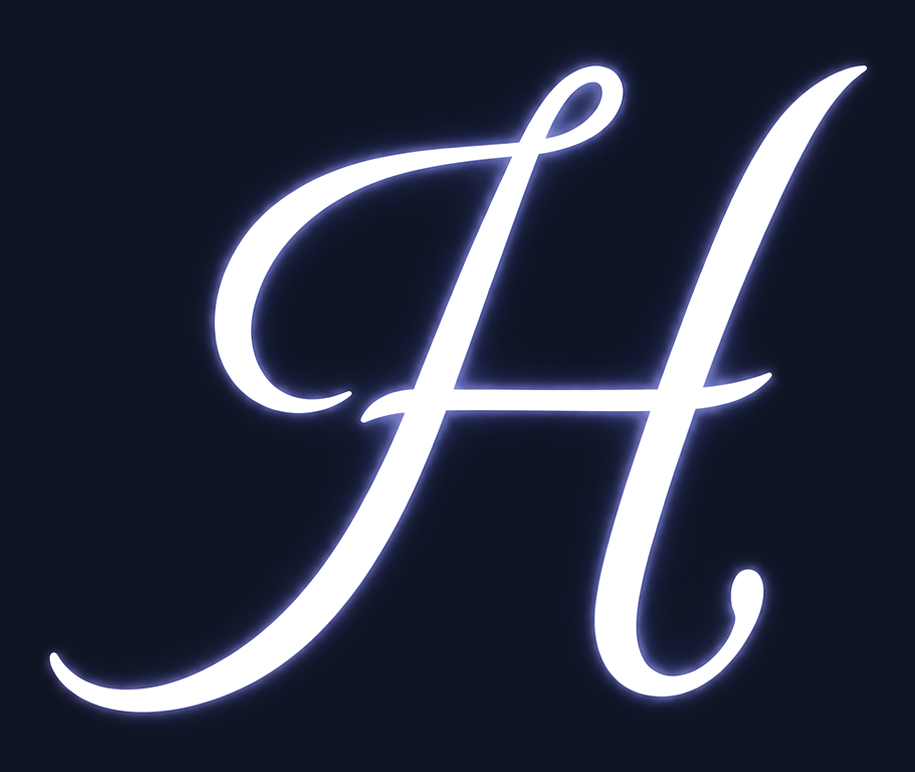
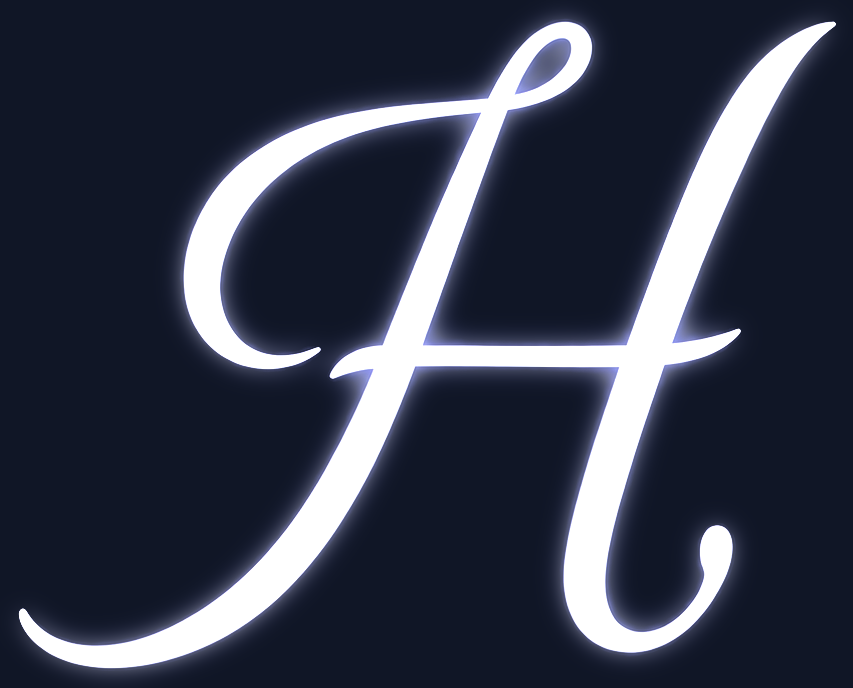
Add files via upload

Changed region(s): [[0.1829, 0.0, 0.9754, 0.9767], [0.0, 0.641, 0.4572, 1.0], [0.3353, 0.702, 0.3658, 0.7631]]

diff --git a/index.html b/index.html
@@ -139,9 +139,9 @@
 
     /* 주문 버튼 펄스 */
     @keyframes orderPulse {
-      0%   { box-shadow: 0 0 10px rgba(135,136,238,0.3), 0 0 0px rgba(135,136,238,0); border-color: rgba(135,136,238,0.6); }
-      50%  { box-shadow: 0 0 28px rgba(135,136,238,0.7), 0 0 50px rgba(135,136,238,0.2); border-color: rgba(135,136,238,1); }
-      100% { box-shadow: 0 0 10px rgba(135,136,238,0.3), 0 0 0px rgba(135,136,238,0); border-color: rgba(135,136,238,0.6); }
+      0%   { box-shadow: 0 0 10px rgba(var(--sc-rgb,135,136,238),0.3), 0 0 0px rgba(var(--sc-rgb,135,136,238),0); border-color: rgba(var(--sc-rgb,135,136,238),0.6); }
+      50%  { box-shadow: 0 0 28px rgba(var(--sc-rgb,135,136,238),0.7), 0 0 50px rgba(var(--sc-rgb,135,136,238),0.2); border-color: rgba(var(--sc-rgb,135,136,238),1); }
+      100% { box-shadow: 0 0 10px rgba(var(--sc-rgb,135,136,238),0.3), 0 0 0px rgba(var(--sc-rgb,135,136,238),0); border-color: rgba(var(--sc-rgb,135,136,238),0.6); }
     }
     .order-pulse { animation: orderPulse 2s ease-in-out infinite; }
 
@@ -318,12 +318,12 @@
               후제공방이 명품이 될 수 있다면,<br>
               그것은 오직 여러분 덕분입니다."
             </p>
-            <!-- 서명: 커스텀 H + Great Vibes ooje -->
-            <div class="flex flex-col items-center md:items-end gap-1 shrink-0 mt-4 md:mt-0 select-none">
-              <span style="font-family:'Cinzel',serif; font-size:12px; letter-spacing:0.5em; color:rgba(255,255,255,0.5); padding-left:0.5em;">MASTER</span>
+            <!-- 서명: 커스텀 H + Great Vibes ooje (글로우 통일) -->
+            <div class="flex flex-col items-center shrink-0 mt-4 md:mt-0 select-none">
+              <span style="font-family:'Cinzel',serif; font-size:12px; letter-spacing:0.5em; color:rgba(255,255,255,0.55); padding-left:0.5em; margin-bottom:8px;">MASTER</span>
               <div style="display:flex; align-items:flex-end; line-height:1;">
-                <img src="hmark.png" alt="H" draggable="false" style="height:118px; width:auto; margin-right:-20px; margin-bottom:6px;">
-                <span style="font-family:'Great Vibes',cursive; font-size:90px; color:#ffffff; line-height:1; text-shadow:0 0 9px rgba(190,198,255,0.9),0 0 22px rgba(135,136,238,0.6),0 0 46px rgba(135,136,238,0.35);">ooje</span>
+                <img src="hmark.png" alt="H" draggable="false" style="height:110px; width:auto; margin-right:-16px; margin-bottom:4px; filter:drop-shadow(0 0 8px rgba(190,198,255,0.85)) drop-shadow(0 0 20px rgba(135,136,238,0.55)) drop-shadow(0 0 40px rgba(135,136,238,0.3));">
+                <span style="font-family:'Great Vibes',cursive; font-size:90px; color:#ffffff; line-height:1; text-shadow:0 0 8px rgba(190,198,255,0.85),0 0 20px rgba(135,136,238,0.55),0 0 40px rgba(135,136,238,0.3);">ooje</span>
               </div>
             </div>
           </div>
@@ -658,10 +658,10 @@ import { initializeApp } from "https://www.gstatic.com/firebasejs/10.7.1/firebas
 
     let currentStatusType = '';
     const STATUS_NOTICE_CONFIG = {
-      '쐐기 중':  { color: '#eab308', bg: 'rgba(234,179,8,0.07)', border: 'rgba(234,179,8,0.3)', icon: '⏱️', msg: '현재 쐐기 진행 중 — 최대 30분 소요될 수 있습니다' },
-      '레이드 중': { color: '#ea580c', bg: 'rgba(234,88,12,0.07)', border: 'rgba(234,88,12,0.3)', icon: '⚔️', msg: '현재 레이드 중 — 최대 1시간 소요될 수 있습니다' },
-      '자리 비움': { color: '#84cc16', bg: 'rgba(132,204,22,0.07)', border: 'rgba(132,204,22,0.3)', icon: '🔔', msg: '잠시 자리를 비웠습니다 — 10분 전후로 돌아옵니다' },
-      '외출 중':  { color: '#14b8a6', bg: 'rgba(20,184,166,0.07)', border: 'rgba(20,184,166,0.3)', icon: '🙏', msg: '외출 중입니다 — 틈틈이 확인하지만 빠른 제작을 장담드리기 어렵습니다' },
+      '쐐기 중':  { color: '#3b82f6', bg: 'rgba(59,130,246,0.07)', border: 'rgba(59,130,246,0.3)', icon: '⏱️', msg: '현재 쐐기 진행 중 — 최대 30분 소요될 수 있습니다' },
+      '레이드 중': { color: '#a855f7', bg: 'rgba(168,85,247,0.07)', border: 'rgba(168,85,247,0.3)', icon: '⚔️', msg: '현재 레이드 중 — 최대 1시간 소요될 수 있습니다' },
+      '자리 비움': { color: '#eab308', bg: 'rgba(234,179,8,0.07)', border: 'rgba(234,179,8,0.3)', icon: '🔔', msg: '잠시 자리를 비웠습니다 — 10분 전후로 돌아옵니다' },
+      '외출 중':  { color: '#f97316', bg: 'rgba(249,115,22,0.07)', border: 'rgba(249,115,22,0.3)', icon: '🙏', msg: '외출 중입니다 — 틈틈이 확인하지만 빠른 제작을 장담드리기 어렵습니다' },
       '오프라인': { color: '#6b7280', bg: 'rgba(107,114,128,0.07)', border: 'rgba(107,114,128,0.3)', icon: '💤', msg: '오프라인 상태입니다 — 느긋하게 기다리실 수 있는 분만 의뢰해주세요\n(반나절은 넘기지 않습니다)' },
     };
     function generateStatusNoticeHTML() {
@@ -681,6 +681,19 @@ import { initializeApp } from "https://www.gstatic.com/firebasejs/10.7.1/firebas
       });
     }
 
+    const STATUS_RGB = {
+      '온라인':'34,197,94','쐐기 중':'59,130,246','레이드 중':'168,85,247','자리 비움':'234,179,8','외출 중':'249,115,22','오프라인':'107,114,128'
+    };
+    function statusRGB(){ return STATUS_RGB[currentStatusType] || '135,136,238'; }
+    function refreshOrderButtonColors(){
+      const rgb = statusRGB();
+      document.querySelectorAll('.order-action-btn.order-pulse').forEach(btn=>{
+        btn.style.setProperty('--sc-rgb', rgb);
+        btn.style.background = `linear-gradient(to right, rgba(${rgb},0.2), rgba(${rgb},0.1))`;
+        btn.style.borderColor = `rgba(${rgb},0.6)`;
+      });
+    }
+
     const STATUS_COLOR_MAP = {
       'bg-green-500':  '#22c55e',
       'bg-yellow-500': '#eab308',
@@ -695,12 +708,15 @@ import { initializeApp } from "https://www.gstatic.com/firebasejs/10.7.1/firebas
       if(data) {
         currentStatusType = data.type;
         document.getElementById('status-text').innerText = `${data.type} : ${data.message}`;
-        document.getElementById('status-dot').className = `w-3 h-3 md:w-3.5 md:h-3.5 rounded-full animate-pulse shrink-0 ${data.color}`;
-        const hexColor = STATUS_COLOR_MAP[data.color] || '#4b5563';
+        const rgb = statusRGB();
+        const dot = document.getElementById('status-dot');
+        dot.className = `w-3 h-3 md:w-3.5 md:h-3.5 rounded-full animate-pulse shrink-0`;
+        dot.style.background = `rgb(${rgb})`;
         const liveStatus = document.getElementById('live-status');
-        liveStatus.style.borderColor = hexColor;
-        liveStatus.style.boxShadow = `0 0 12px ${hexColor}40`;
+        liveStatus.style.borderColor = `rgb(${rgb})`;
+        liveStatus.style.boxShadow = `0 0 12px rgba(${rgb},0.28)`;
         refreshStatusNotices();
+        refreshOrderButtonColors();
       }
     });
 
@@ -1274,9 +1290,10 @@ import { initializeApp } from "https://www.gstatic.com/firebasejs/10.7.1/firebas
           ${showNotice ? generateStatusNoticeHTML() : ''}
         `;
       }
+      const _sc = statusRGB();
       return `
         <button onclick="sendOrder('${crafter}', '${itemName}')"
-          class="order-action-btn order-pulse w-full p-4 bg-gradient-to-r from-[#8788EE]/20 to-[#8788EE]/10 border-2 border-[#8788EE]/60 rounded-xl md:rounded-2xl font-black text-white active:scale-95 flex items-center justify-between gap-2 relative overflow-hidden group">
+          class="order-action-btn order-pulse w-full p-4 border-2 rounded-xl md:rounded-2xl font-black text-white active:scale-95 flex items-center justify-between gap-2 relative overflow-hidden group" style="--sc-rgb:${_sc}; background:linear-gradient(to right, rgba(${_sc},0.2), rgba(${_sc},0.1)); border-color:rgba(${_sc},0.6);">
           <span class="absolute inset-0 w-full h-full bg-gradient-to-r from-transparent via-white/10 to-transparent -translate-x-full group-hover:animate-[shimmer_1.5s_infinite]"></span>
           <span class="finger-left text-lg md:text-xl select-none shrink-0 relative z-10">👉</span>
           <div class="flex flex-col items-center flex-1 gap-1 relative z-10">

diff --git a/rouget_admin.html b/rouget_admin.html
@@ -69,10 +69,10 @@
   <div class="w-full max-w-2xl mb-5 p-5 rounded-2xl glass-panel border-[#8788EE]/20 shadow-xl">
     <div class="grid grid-cols-3 gap-2 mb-2">
       <button id="btn-온라인" onclick="setStatus('온라인', '즉시 제작 가능 ✨', 'bg-green-500')" class="py-4 rounded-xl font-black text-xs md:text-sm bg-green-600 hover:bg-green-500 shadow-lg active:scale-95 transition-all border border-transparent">✨ 온라인</button>
-      <button id="btn-쐐기 중" onclick="setStatus('쐐기 중', '20분 내 제작 가능 🗝️', 'bg-yellow-500')" class="py-4 rounded-xl font-black text-xs md:text-sm bg-yellow-600 hover:bg-yellow-500 shadow-lg active:scale-95 transition-all border border-transparent">🗝️ 쐐기 중</button>
-      <button id="btn-레이드 중" onclick="setStatus('레이드 중', '1시간 내 제작 가능 ⚔️', 'bg-orange-600')" class="py-4 rounded-xl font-black text-xs md:text-sm bg-orange-700 hover:bg-orange-600 shadow-lg active:scale-95 transition-all border border-transparent">⚔️ 레이드 중</button>
-      <button id="btn-자리 비움" onclick="setStatus('자리 비움', '10분 내외로 짧은 자리 비움 중입니다.' + String.fromCharCode(10) + '곧 돌아와 바로 제작합니다 ⚡', 'bg-lime-500')" class="py-4 rounded-xl font-black text-xs md:text-sm bg-lime-600 hover:bg-lime-500 shadow-lg active:scale-95 transition-all border border-transparent">🔔 자리 비움</button>
-      <button id="btn-외출 중" onclick="setStatus('외출 중', '틈틈이 원격으로 제작 중입니다.' + String.fromCharCode(10) + '여유롭게 기다리실 수 있는 분만 의뢰 부탁드립니다 🙏', 'bg-teal-500')" class="py-4 rounded-xl font-black text-xs md:text-sm bg-teal-600 hover:bg-teal-500 shadow-lg active:scale-95 transition-all border border-transparent">🙏 외출 중</button>
+      <button id="btn-쐐기 중" onclick="setStatus('쐐기 중', '20분 내 제작 가능 🗝️', 'bg-blue-500')" class="py-4 rounded-xl font-black text-xs md:text-sm bg-blue-600 hover:bg-blue-500 shadow-lg active:scale-95 transition-all border border-transparent">🗝️ 쐐기 중</button>
+      <button id="btn-레이드 중" onclick="setStatus('레이드 중', '1시간 내 제작 가능 ⚔️', 'bg-purple-500')" class="py-4 rounded-xl font-black text-xs md:text-sm bg-purple-600 hover:bg-purple-500 shadow-lg active:scale-95 transition-all border border-transparent">⚔️ 레이드 중</button>
+      <button id="btn-자리 비움" onclick="setStatus('자리 비움', '10분 내외로 짧은 자리 비움 중입니다.' + String.fromCharCode(10) + '곧 돌아와 바로 제작합니다 ⚡', 'bg-yellow-500')" class="py-4 rounded-xl font-black text-xs md:text-sm bg-yellow-600 hover:bg-yellow-500 shadow-lg active:scale-95 transition-all border border-transparent">🔔 자리 비움</button>
+      <button id="btn-외출 중" onclick="setStatus('외출 중', '틈틈이 원격으로 제작 중입니다.' + String.fromCharCode(10) + '여유롭게 기다리실 수 있는 분만 의뢰 부탁드립니다 🙏', 'bg-orange-500')" class="py-4 rounded-xl font-black text-xs md:text-sm bg-orange-600 hover:bg-orange-500 shadow-lg active:scale-95 transition-all border border-transparent">🙏 외출 중</button>
       <button id="btn-오프라인" onclick="setStatus('오프라인', '6시간 내 제작 가능 💤', 'bg-gray-600')" class="py-4 rounded-xl font-black text-xs md:text-sm bg-gray-700 hover:bg-gray-600 shadow-lg active:scale-95 transition-all border border-transparent">💤 오프라인</button>
     </div>
     <textarea id="status-desc-input" rows="2" placeholder="상세 문구 입력 (엔터로 줄바꿈 가능)..." class="w-full bg-black/40 border border-gray-800 rounded-xl p-4 text-sm text-white outline-none focus:border-[#8788EE] font-bold transition-all shadow-inner custom-scrollbar resize-none"></textarea>